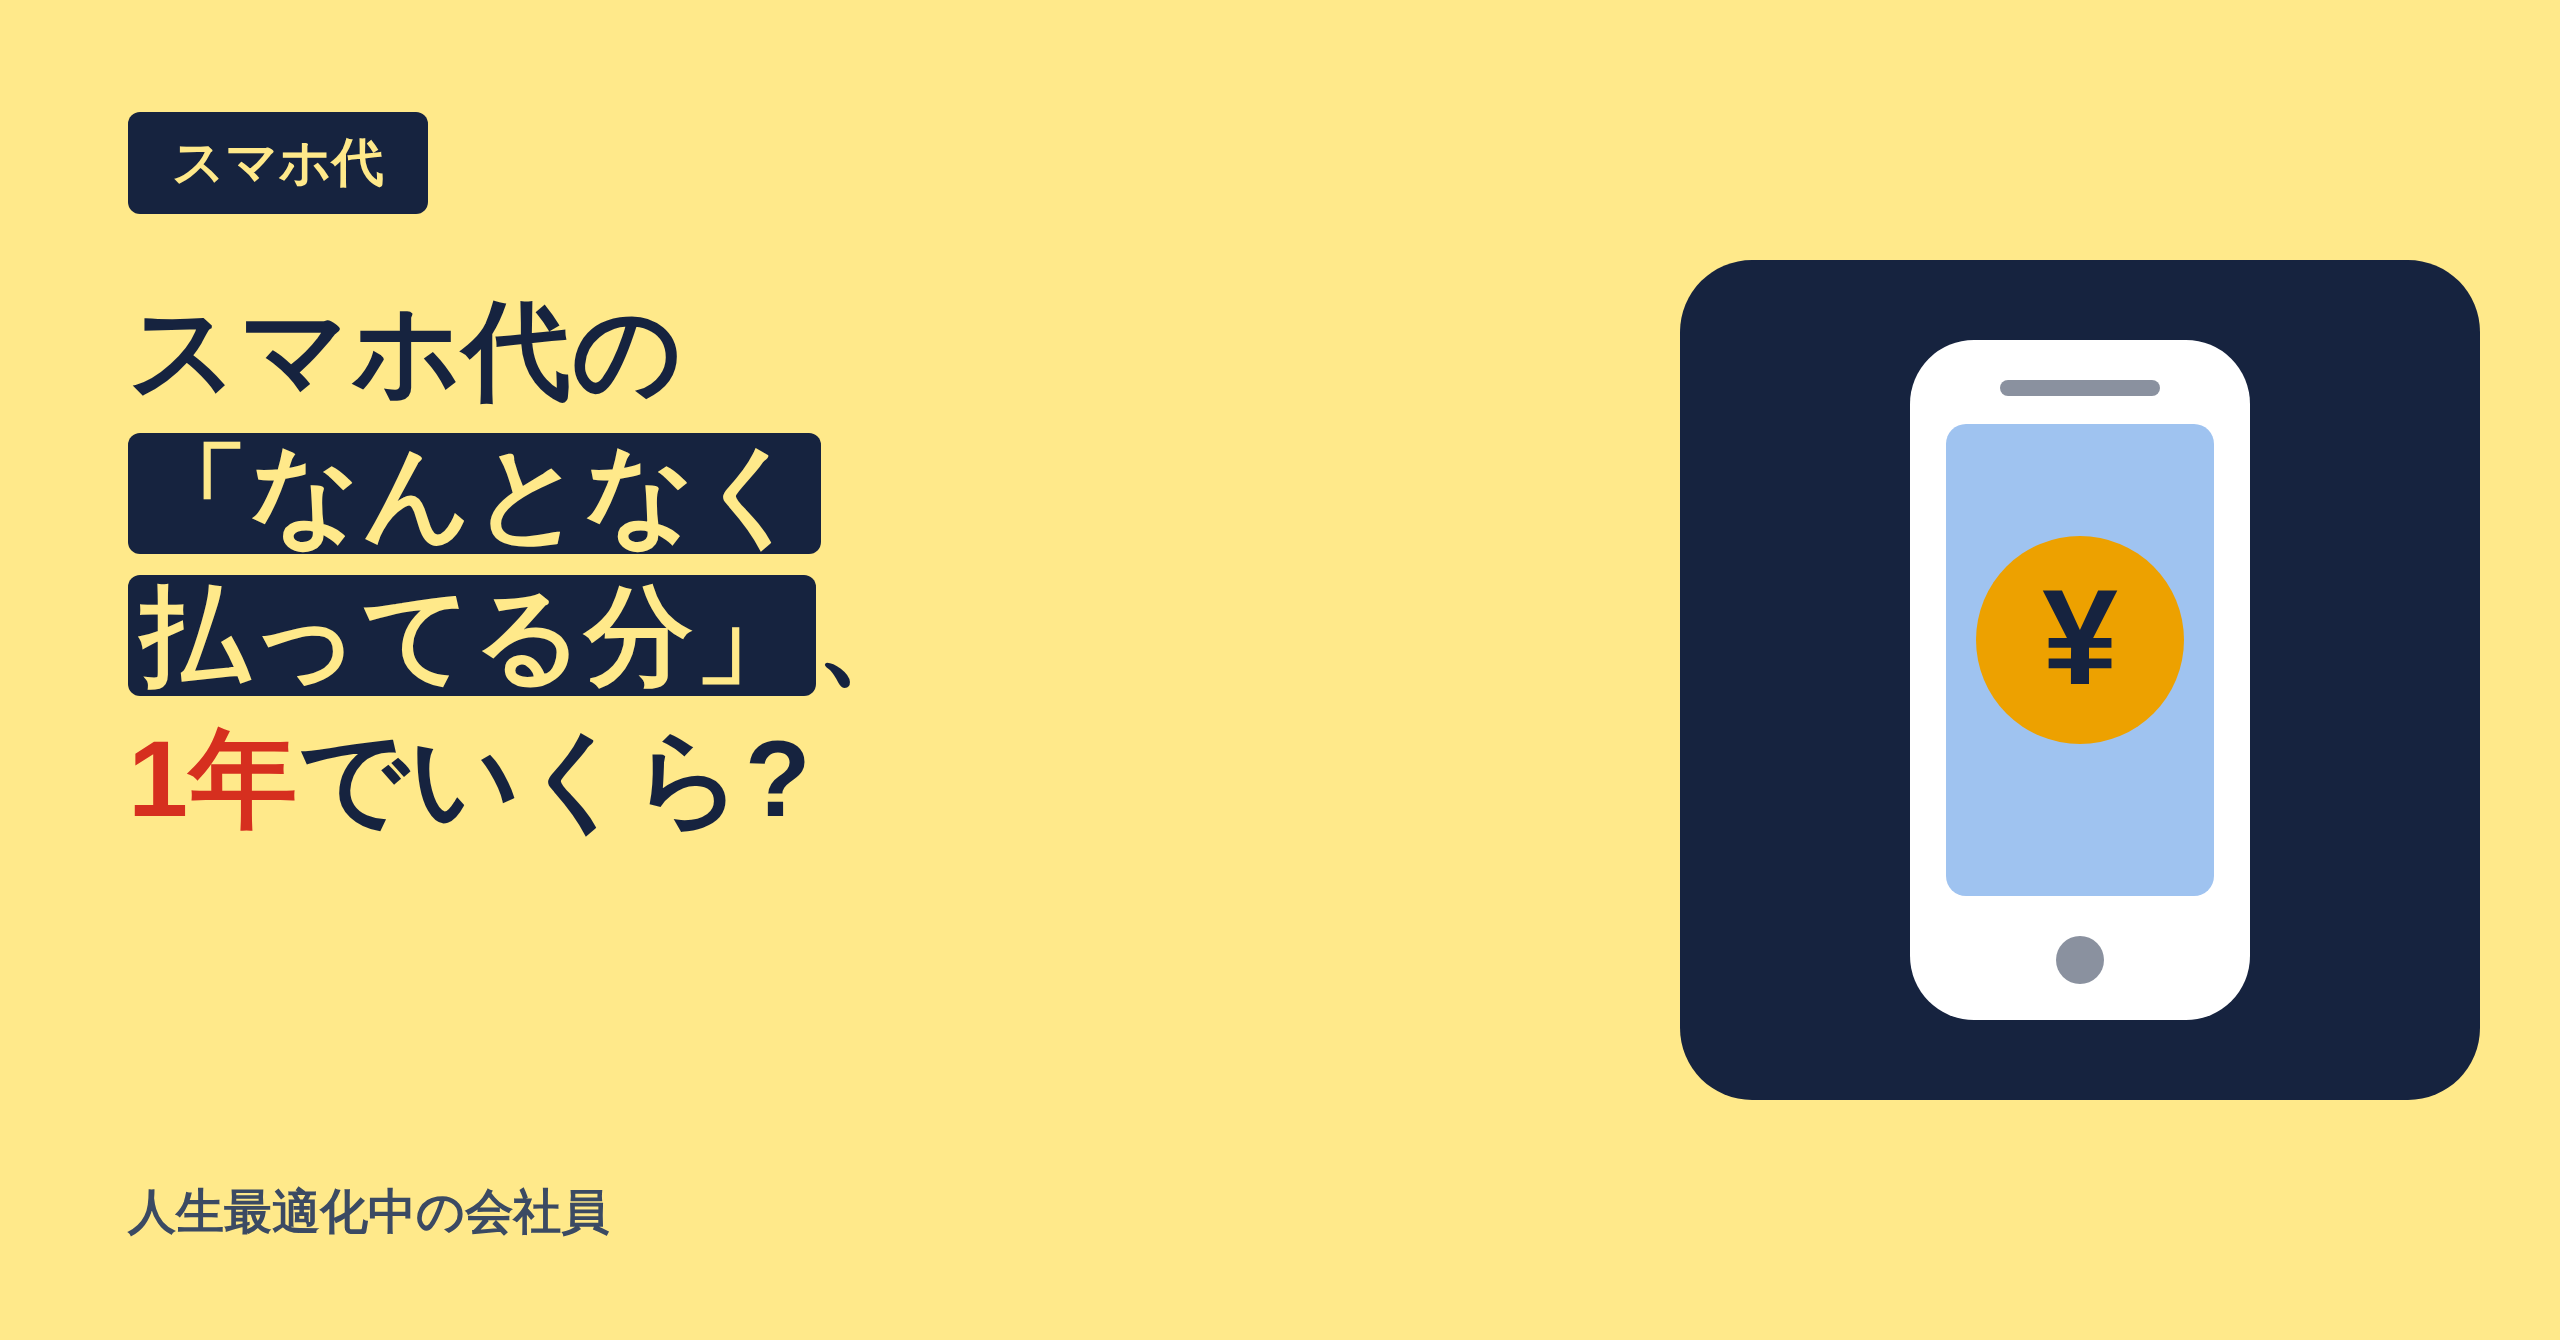
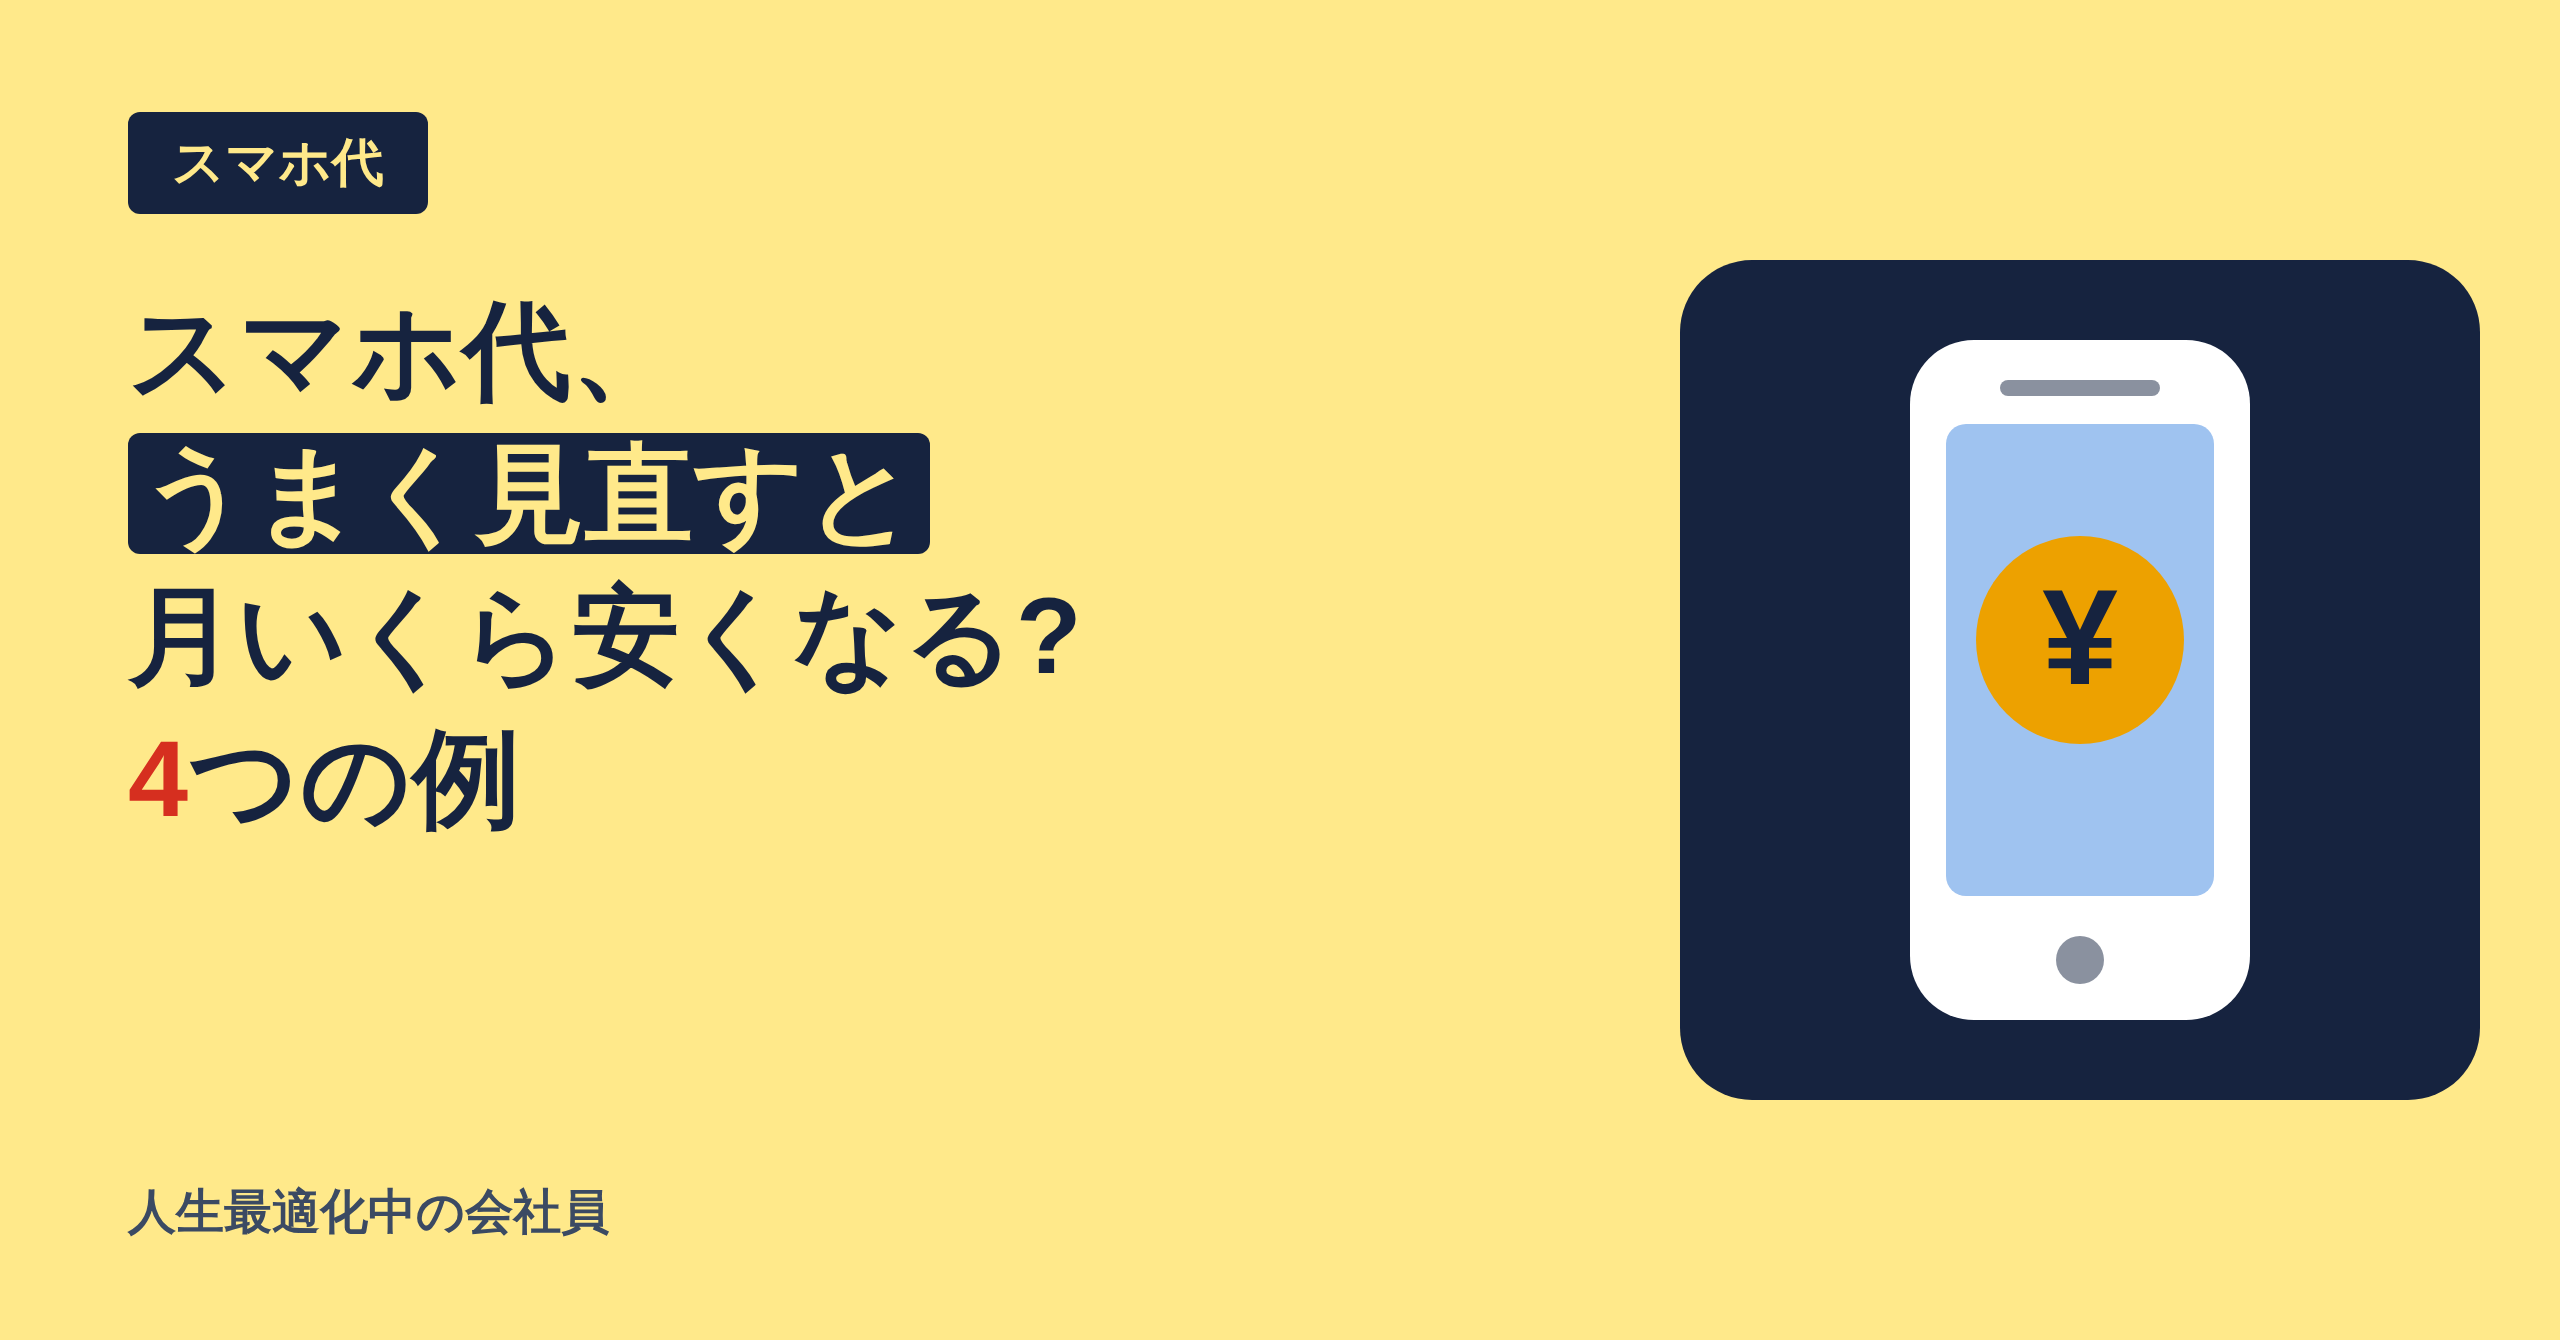
2026-11-04_002: revised with savings examples, figures; SNS in progress
Claude-Session: https://claude.ai/code/session_019jxzMkHZEL8EPC28xkVZW1

Changed region(s): [[0.0312, 0.306, 0.4375, 0.5201], [0.0312, 0.5507, 0.3125, 0.6425], [0.2188, 0.2142, 0.2812, 0.306]]

diff --git a/runs/2026-11-04_002/author_notes.md b/runs/2026-11-04_002/author_notes.md
@@ -1,24 +1,23 @@
 # 作業メモ(読者向けではない。記事には入れない)
 
 ## あるあるの記録(Claudeの提案(未確認)。合わなければ消してください)
-- 導入: 「請求は毎月届くのに、合計の金額だけ見て閉じる。そんな人もいると思います。」(読者の場面)
-- オプション: 「申し込んだことを忘れているものが、請求に載り続けているかもしれません。そんな人もいるかもしれません。」
-- 割引: 「いつ終わるのか覚えていない、という人もいるかもしれません。」
-- 合計3か所。すべて読者の場面で、割合の数字なし。筆者の体験ではない。
+- 導入: 「請求は毎月届くのに、合計の金額だけ見て閉じる。そんな人もいると思います。」
+- 例2: 「申し込んだことを忘れているものが、請求に載り続けているかもしれません。そんな人もいるかもしれません。」
+- 合計2か所(3か所以内)。すべて読者の場面で、割合の数字なし。筆者の体験ではない。
 
-## タイトル
-- 本案: スマホ代の「なんとなく払ってる分」、1年でいくら?(25字)
-- 予備: スマホ代、乗り換えなくても下がる場所はある?(22字)
-- 予備: スマホ代の請求、「払いすぎ」を探す3か所(21字)
+## タイトル(再編集:持ち主の指示)
+- 本案: スマホ代、うまく見直すと月いくら安くなる?4つの例
+- 予備: スマホ代、見直すと月いくら下がる?4つの例
+- 予備: スマホ代を下げる4つの例、月いくら変わる?
 
-## 本文から外したもの(作業メモ)
-- 総務省のページ(S1〜S8)には、確認した範囲では、平均の削減額が載っていない。そのため試算は、架空の例の計算式だけにした。
-- 家計調査の11,672円(二人以上世帯、平均2.87人の世帯全体、世帯主の平均60.7歳、携帯以外の通信費も含む)は、1人分の請求と比べると誤読されるため、本文・図から削った。
-- 事実の根拠: 見直しの順番・オプション解約・割引の条件・最安値の注意・データ量と段階制は[S1]。事務手数料3,300円前後は[S6]。違約金・分割払い・家族割は[S4][S5]。初期契約解除は[S8]。
-- 計算(架空の例): 500/1,000/1,500円×12=6,000/12,000/18,000円。3,300+1,100=4,400円、4,400÷500=8.8、4,400÷1,000=4.4。違約金1,100円は上限額を仮に使った例。
+## 架空の金額の根拠(すべて架空。公式の平均額ではない)
+- 例1: 8,000−5,500=2,500、×12=30,000。根拠(事実)は総務省の「大容量の定額から段階制へ変えると安くなることがある」[norikae_1]。
+- 例2: 6,000−800=5,200、800×12=9,600。根拠(事実)は「使わないオプションは解約」[norikae_1]。
+- 例3: 3,000−1,000=2,000、×12=24,000。根拠(事実)は「3GB以下で月額1,000円以下の事業者もある」[erabikata_2]。会社名・プラン名は書いていない。新しい月額1,000円は、この記述の上限を例にしたもの。
+- 例4: 7,800−4,800=3,000、×12=36,000。3,300÷3,000=1.1、(3,300+1,100)÷3,000=約1.47→約1.5、4,400÷500=8.8。手数料3,300円前後は[norikae_2]、違約金上限1,100円(2022年7月1日以降・個人・対象会社)は[norikae_3][index]。
 - 体験: なし。【要入力】なし。筆者の意見・推測も本文に入れていない。
 
 ## 確認してほしいこと
-- 次回予告は、確認できる翌日の企画がないため入れていない。決まったら1〜2文足す。
-- 表紙は phone、猫なし、タグ「スマホ代」。強調の赤(b)は数字「1年」に使った。
-- アフィリエイトは付けていない。
+- 次回予告は、確認できる翌日の企画がないため入れていない。
+- 表紙は phone、猫なし、タグ「スマホ代」。赤(b)は「いくら」に使った(数字ではないので、気になれば em だけにする)。
+- アフィリエイトは付けていない。画像は figures.json を作り直したので、make-figures で作り直しが必要。
